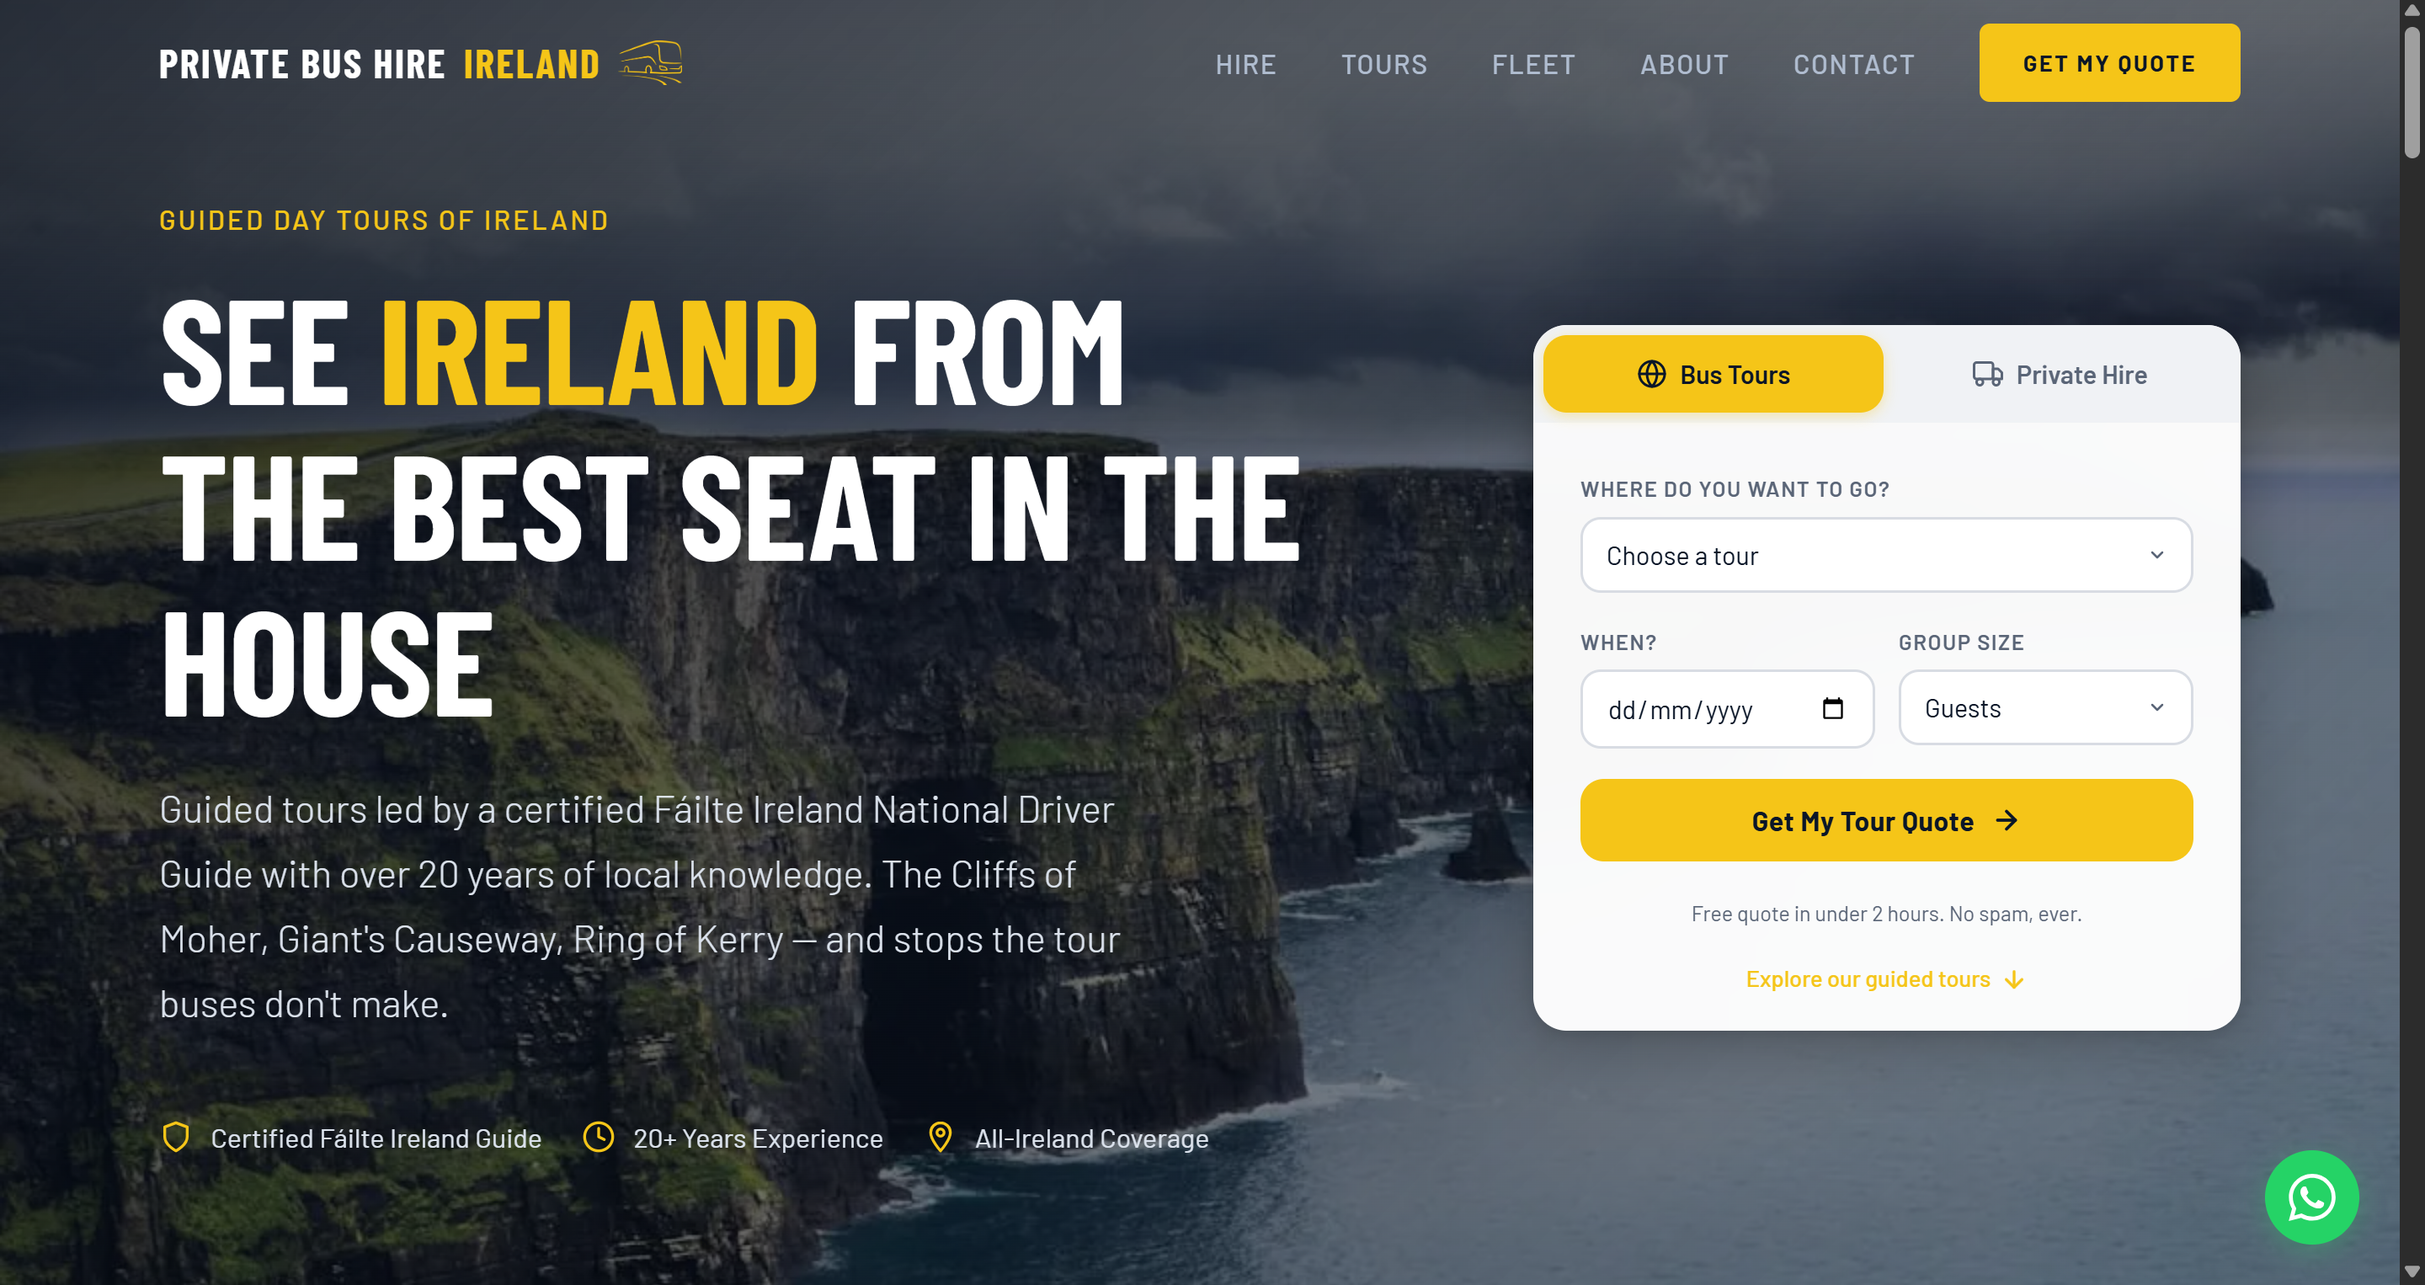
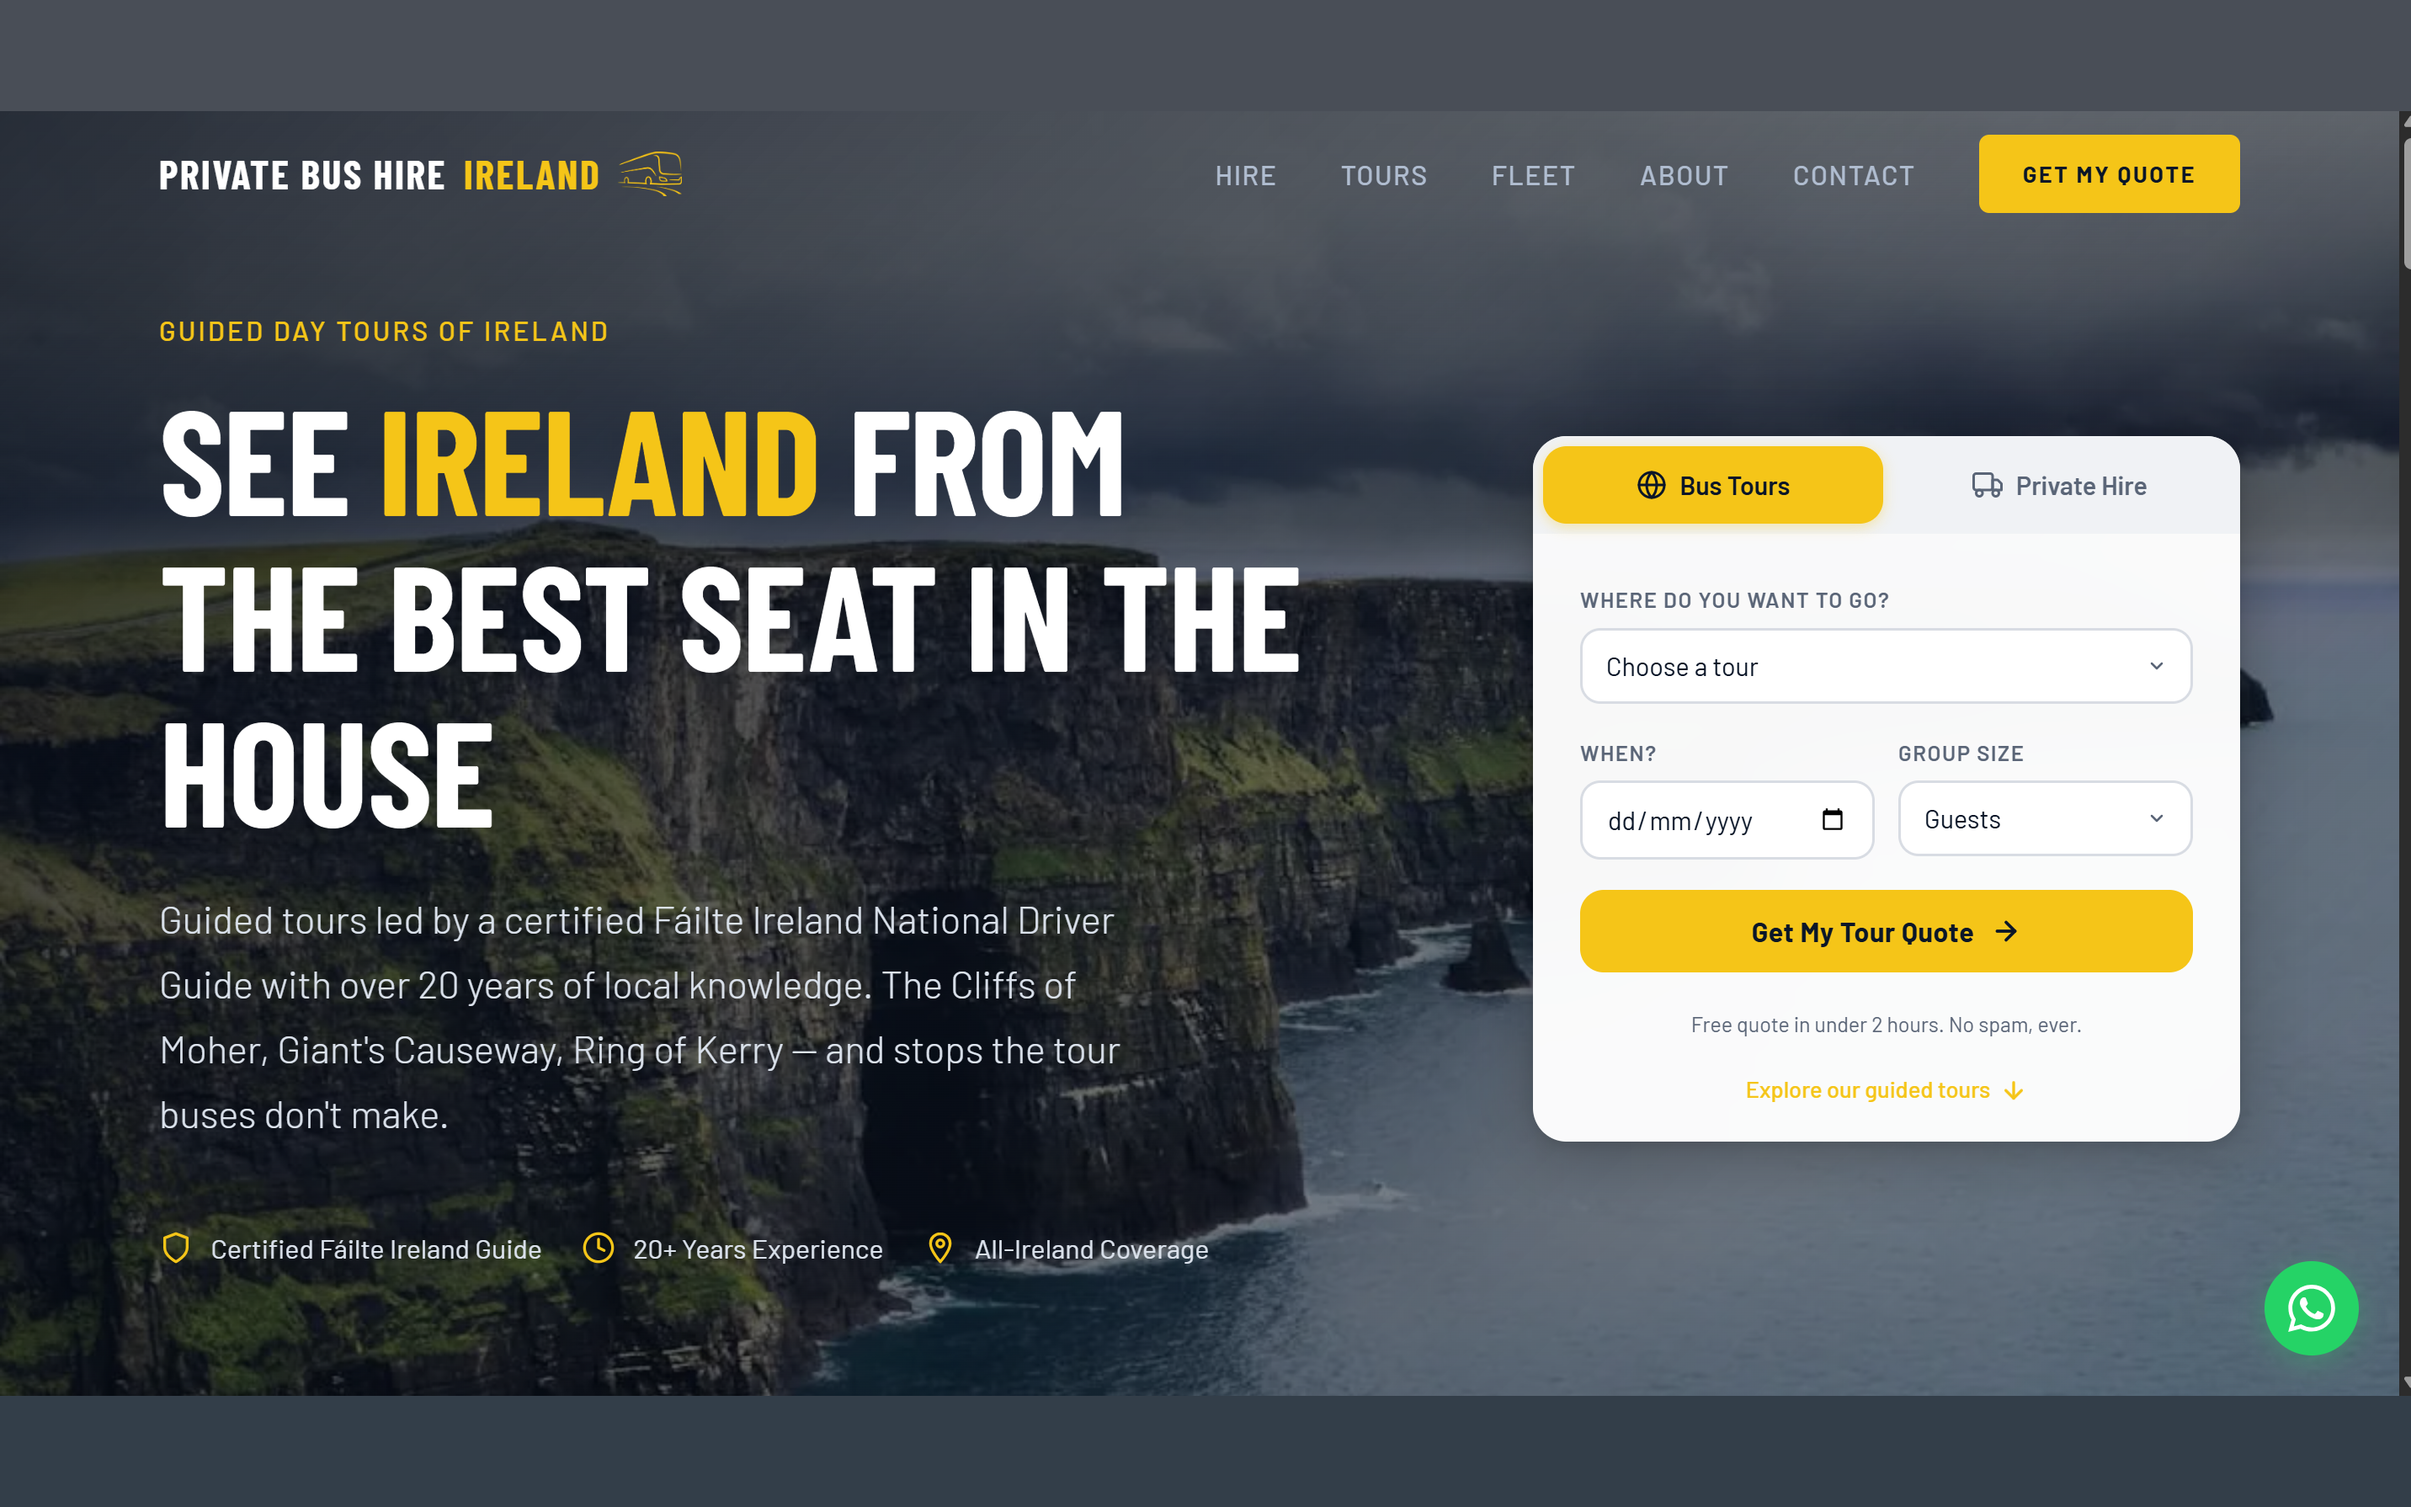
Fix mobile mini-charts and showcase thumbnail clipping
Show all 8 result charts stretched full-width on mobile (was 3), and
pad soundsystemhire/privatebushire showcase images to 16:10 so they fit
their card containers with no edge crop.

diff --git a/css/styles.css b/css/styles.css
@@ -1849,13 +1849,8 @@ textarea:focus {
   .bento-grid { grid-template-columns: 1fr; }
   .bento-grid__item--wide { grid-column: span 1; }
   .section-title--chart { white-space: normal; flex-wrap: wrap; }
-  .mini-chart-group { gap: clamp(4px, 1vw, 8px); }
-  .mini-chart { width: clamp(32px, 7vw, 44px); height: clamp(36px, 8vw, 48px); }
-  .mini-chart--echo[data-echo="3"],
-  .mini-chart--echo[data-echo="4"],
-  .mini-chart--echo[data-echo="5"],
-  .mini-chart--echo[data-echo="6"],
-  .mini-chart--echo[data-echo="7"] { display: none; }
+  .mini-chart-group { width: 100%; gap: clamp(3px, 1.2vw, 8px); justify-content: space-between; }
+  .mini-chart { flex: 1 1 0; width: auto; min-width: 0; height: clamp(36px, 10vw, 48px); }
   .work-grid { grid-template-columns: 1fr; }
   .work-card--large { grid-row: span 1; }
   .hero__title { font-size: var(--text-2xl); }
